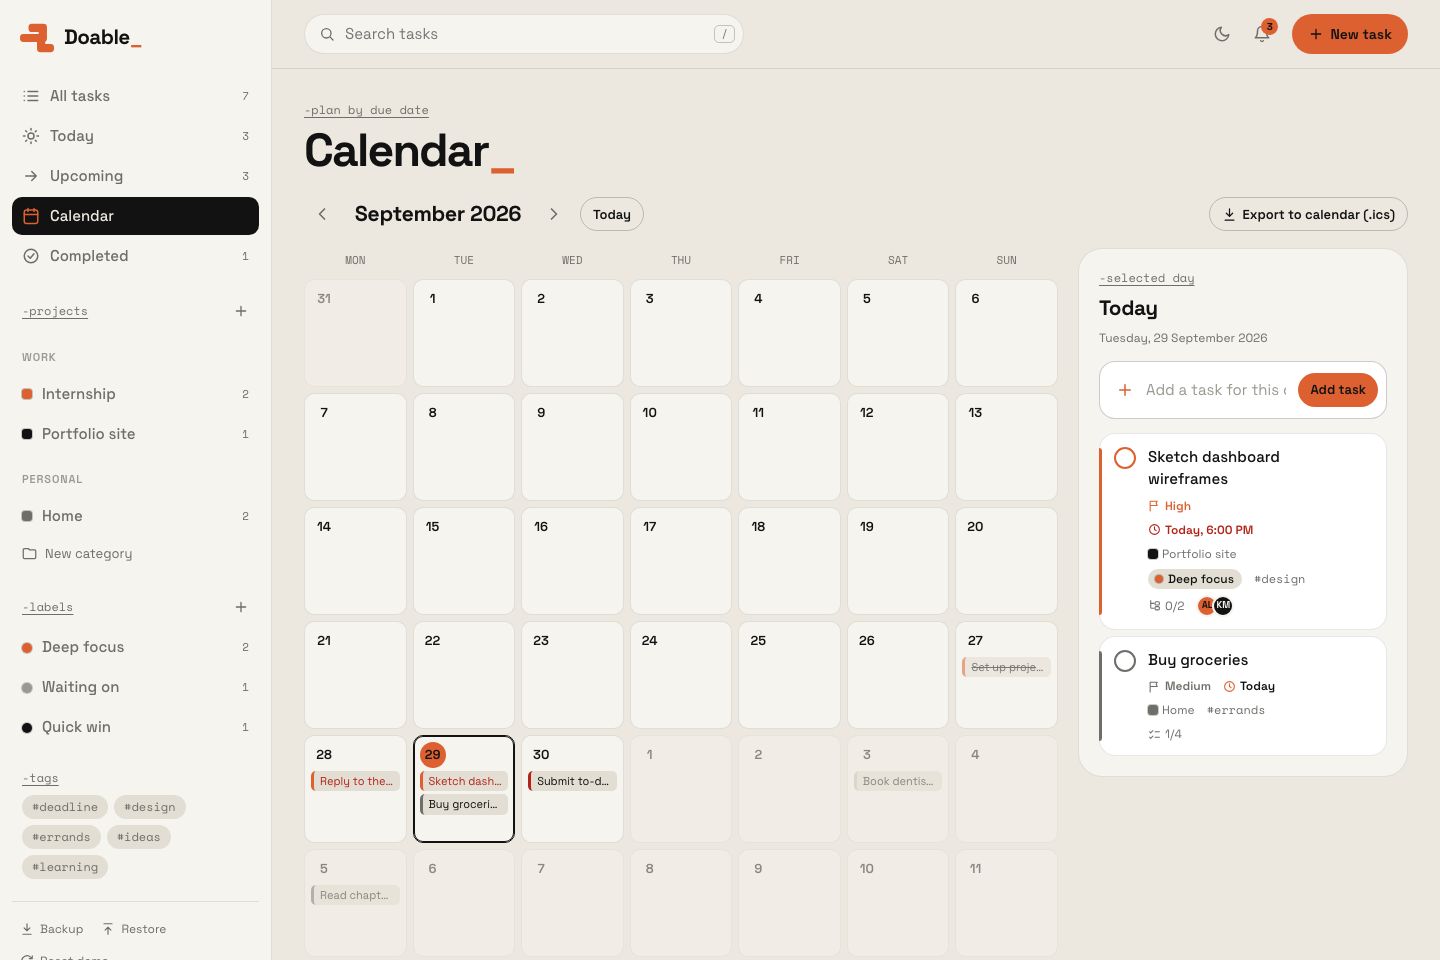
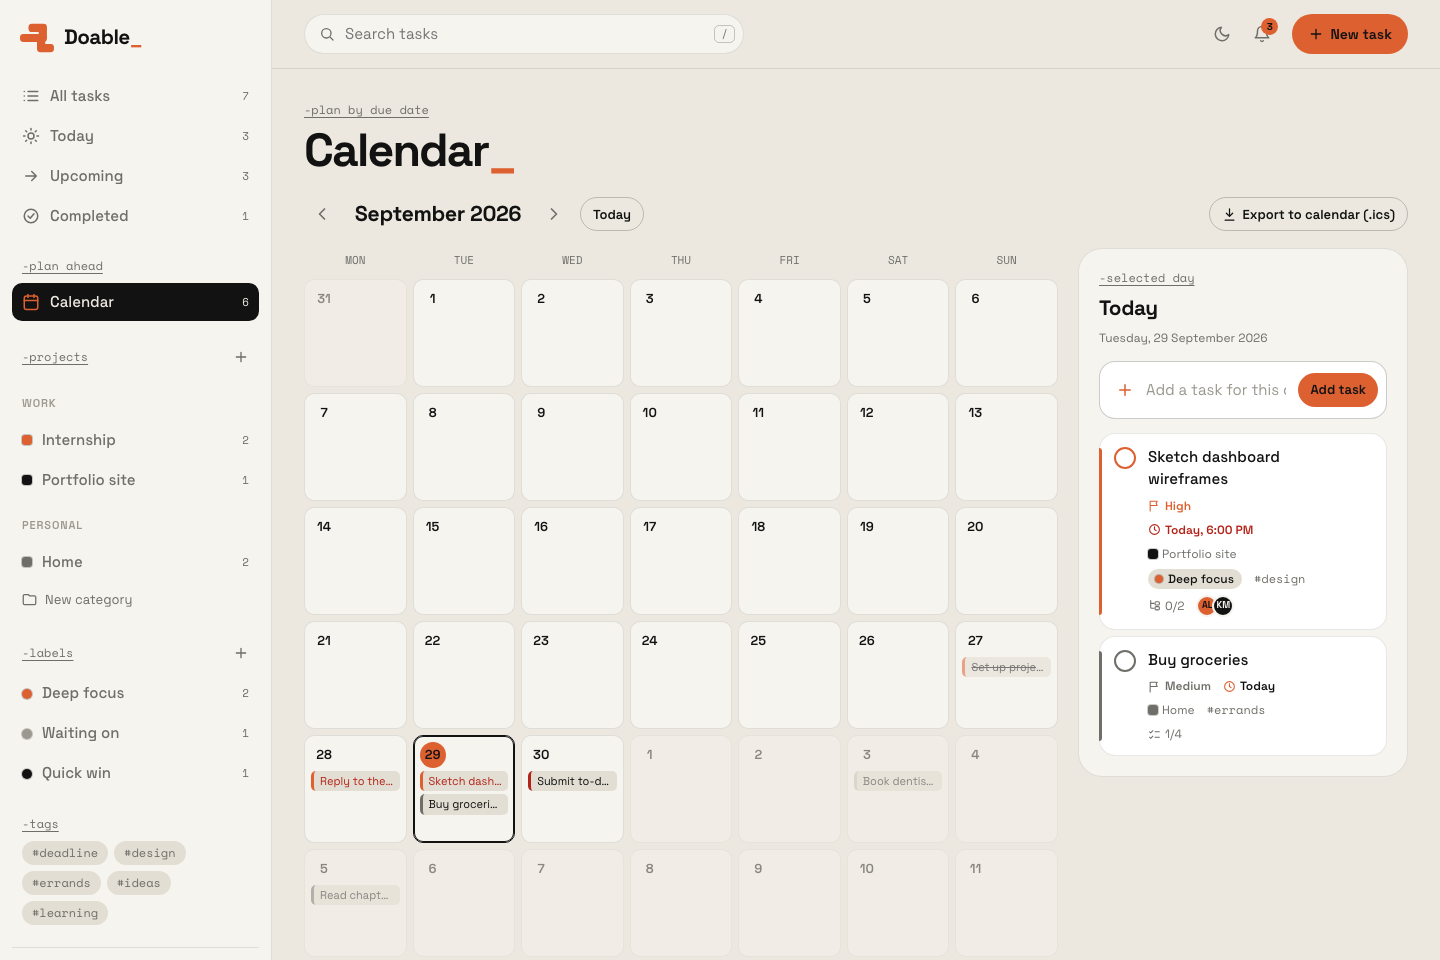
Move Calendar to its own sidebar section below Completed

diff --git a/js/views.js b/js/views.js
@@ -196,9 +196,13 @@ const Views = (() => {
           ${navItem('all', icon('list'), 'All tasks', open.length)}
           ${navItem('today', icon('sun'), 'Today', count((t) => t.dueDate && t.dueDate <= today))}
           ${navItem('upcoming', icon('forward'), 'Upcoming', count((t) => t.dueDate && t.dueDate > today))}
-          ${navItem('calendar', icon('calendar'), 'Calendar')}
           ${navItem('completed', icon('check-circle'), 'Completed', state.tasks.length - open.length)}
         </nav>
+
+        <section class="side-section" aria-label="Calendar">
+          <div class="side-head"><span class="mono-tag">-plan ahead</span></div>
+          ${navItem('calendar', icon('calendar'), 'Calendar', count((t) => t.dueDate))}
+        </section>
 
         <section class="side-section" aria-label="Projects">
           <div class="side-head">
